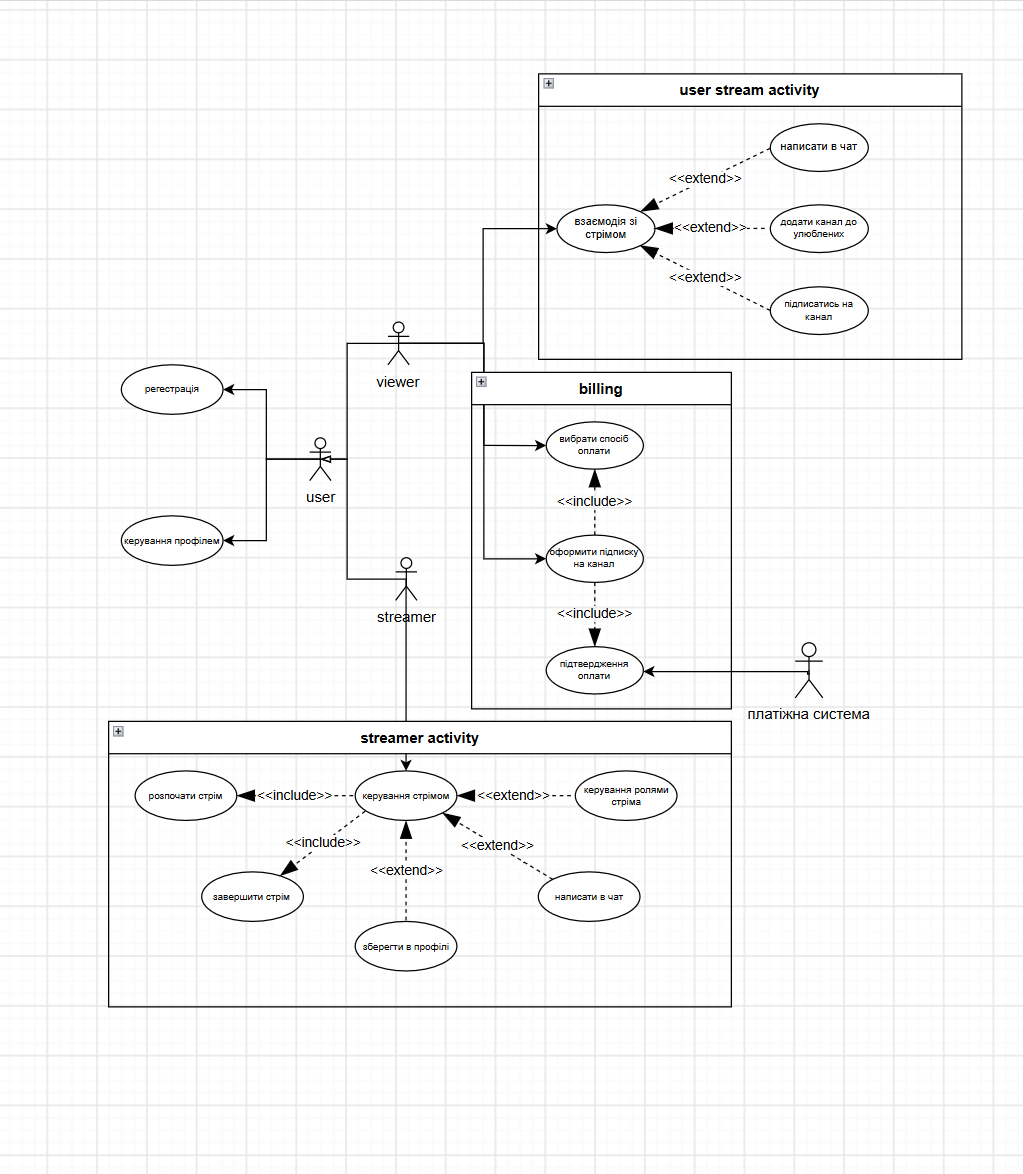
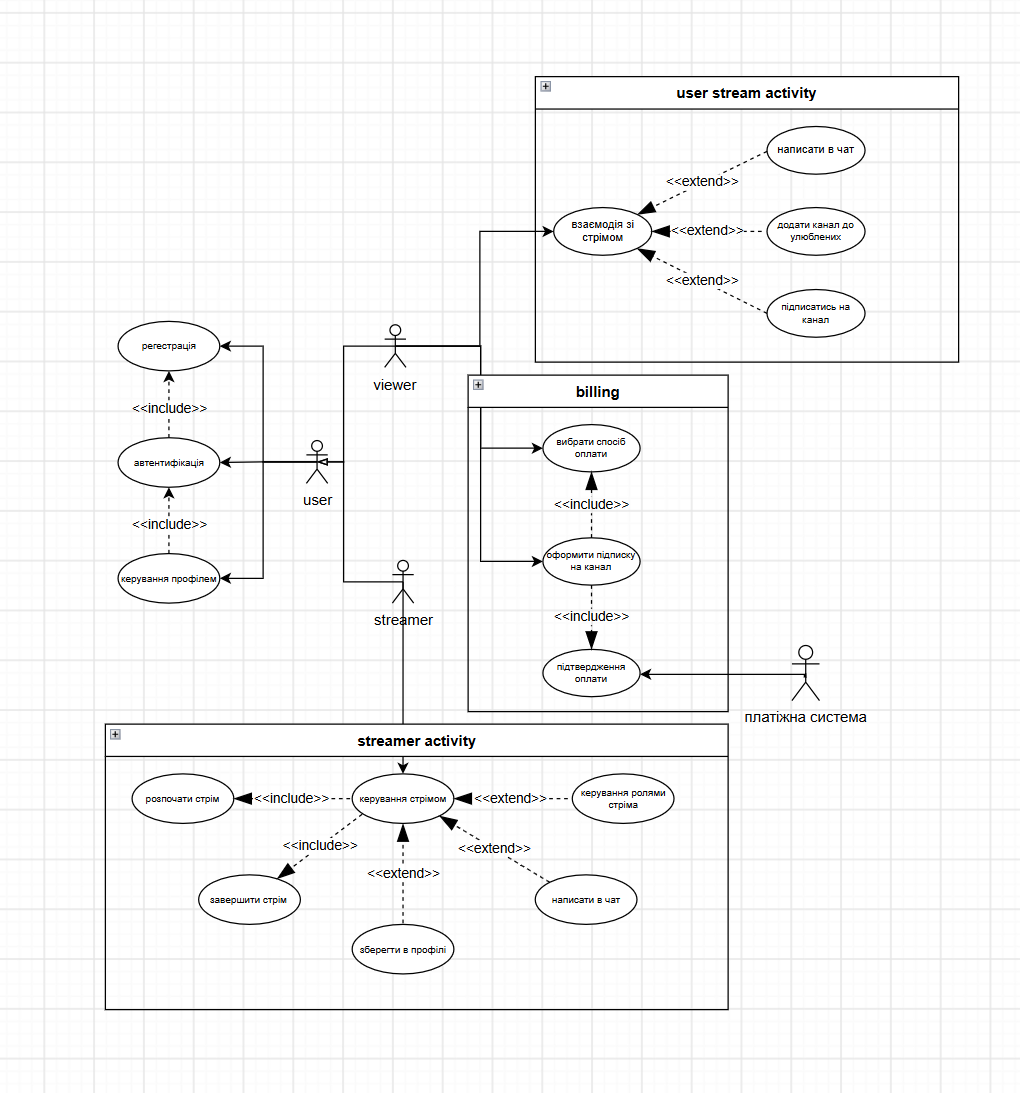
update: add автентифікація to use case diagram and matrix

diff --git a/lab_2/matrix.md b/lab_2/matrix.md
@@ -1,18 +1,18 @@
-| Вимоги                                          | UC-1 (Реєстрація) | UC-2 (Керування профілем) | UC-3 (Billing) | UC-4 (Керування стрімом) | UC-5 (Взаємодія / Чат) |
-| :---------------------------------------------- | :---------------: | :-----------------------: | :------------: | :----------------------: | :--------------------: |
-| fr_1 (Унікальні дані при реєстрації) +          |      Покрито      |             -             |       -        |            -             |           -            |
-| fr_2 (Sign with Google) +                       |      Покрито      |             -             |       -        |            -             |           -            |
-| fr_3 (Зміна даних профілю) +                    |         -         |          Покрито          |       -        |            -             |           -            |
-| fr_4, (Вибір оплати та підписка) +              |         -         |             -             |    Покрито     |            -             |           -            |
-| fr_5, (персоналізація UI) +                     |         -         |          Покрито          |       -        |            -             |           -            |
-| fr_6 (узгодження оплати з банком)+              |         -         |             -             |    покрито     |            -             |           -            |
-| fr_7, (початок трансляції)                      |         -         |             +             |       -        |         покрито          |           -            |
-| fr_8, (закінчення трансляції)                   |         -         |             +             |       -        |         покрито          |           -            |
-| fr_9 (керування елементами стріма)              |         -         |             -             |       -        |         покрито          |           -            |
-| fr_10, (керування VIP-списком)                  |         -         |          покрито          |       -        |         покрито          |           -            |
-| fr_11, (взаємодія з чужими стрімами)            |         -         |             -             |       -        |            -             |           -            |
-| nfr_1 (Ергономіка)                              |      покрито      |          покрито          |    покрито     |         покрито          |        покрито         |
-| nfr_2 (Продуктивність при певних навантаженнях) |         -         |             -             |       -        |         покрито          |        покрито         |
-| nfr_3 (Блокування при спробах оплати)           |         -         |             -             |    покрито     |            -             |           -            |
-| nfr_4 (підтримка системи)                       |         -         |             -             |       -        |            -             |           -            |
-| nfr_5 (відповідність стандартам)                |         -         |             -             |    покрито     |         покрито          |        покрито         |
+| Вимоги                                          | UC-1 (Реєстрація/автентифікація) | UC-2 (Керування профілем) | UC-3 (Billing) | UC-4 (Керування стрімом) | UC-5 (Взаємодія / Чат) |
+| :---------------------------------------------- | :------------------------------: | :-----------------------: | :------------: | :----------------------: | :--------------------: |
+| fr_1 (Унікальні дані при вході в акаунт)        |             Покрито              |             -             |       -        |            -             |           -            |
+| fr_2 (Sign with Google)                         |             Покрито              |             -             |       -        |            -             |           -            |
+| fr_3 (Зміна даних профілю)                      |                -                 |          Покрито          |       -        |            -             |           -            |
+| fr_4, (Вибір оплати та підписка)                |                -                 |             -             |    Покрито     |            -             |           -            |
+| fr_5, (персоналізація UI)                       |                -                 |          Покрито          |       -        |            -             |           -            |
+| fr_6 (узгодження оплати з банком)               |                -                 |             -             |    покрито     |            -             |           -            |
+| fr_7, (початок трансляції)                      |                -                 |             -             |       -        |         покрито          |           -            |
+| fr_8, (закінчення трансляції)                   |                -                 |             -             |       -        |         покрито          |           -            |
+| fr_9 (керування елементами стріма)              |                -                 |             -             |       -        |         покрито          |           -            |
+| fr_10, (керування VIP-списком)                  |                -                 |          покрито          |       -        |         покрито          |           -            |
+| fr_11, (взаємодія з чужими стрімами)            |                -                 |             -             |       -        |            -             |           -            |
+| nfr_1 (Ергономіка)                              |             покрито              |          покрито          |    покрито     |         покрито          |        покрито         |
+| nfr_2 (Продуктивність при певних навантаженнях) |                -                 |             -             |       -        |         покрито          |        покрито         |
+| nfr_3 (Блокування при спробах оплати)           |                -                 |             -             |    покрито     |            -             |           -            |
+| nfr_4 (підтримка системи)                       |             покрито              |          покрито          |       -        |         покрито          |        покрито         |
+| nfr_5 (відповідність стандартам)                |             покрито              |          покрито          |    покрито     |         покрито          |        покрито         |

diff --git a/lab_2/spec.md b/lab_2/spec.md
@@ -4,7 +4,7 @@
 
 ### Перелік акторів
 
-- Viewer : Роль яку користувач отримує під час перебування на стімі. Має власні можливості що обмежуються стрімом на якому перебуває. Наслідує User
+- Viewer : Роль яку користувач отримує під час перебування на стімі. Має власні можливості що обмежуються стрімом на якому перебуває,. Наслідує User
 - Streamer : Роль яку користувач отримує під час проведення стріму. має власні можливості що обмежуються стрімом який проводить користувач. Наслідує User
 - User : Загальний стан користувача. має базові можливості що доступні в будь-який момент користування системою.
 - Payment System : Актор який є окремою від платформи зовнішньою системою оплати, грає ключову роль в білінгових операціях надаючи власні послуги нашій системі.

diff --git a/lab_2/use_case_diagram.md b/lab_2/use_case_diagram.md
@@ -14,6 +14,9 @@ payment_system(["👤 платіжна система"])
     %% Загальні прецеденти для користувача
     user --> reg("реєстрація")
     user --> prof("керування профілем")
+    user -->  avt("автентифікація")
+    avt -.->|include| reg
+    prof -.->|include| avt
 
     %% Взаємодія глядача зі стрімом
     viewer --> interact("взаємодія зі стрімом")
@@ -46,4 +49,4 @@ payment_system(["👤 платіжна система"])
 
 ## рендер відповідної діаграми виконаний в draw.io
 
-![alt text](image.png)
+![alt text](use_case_diagram.png)
